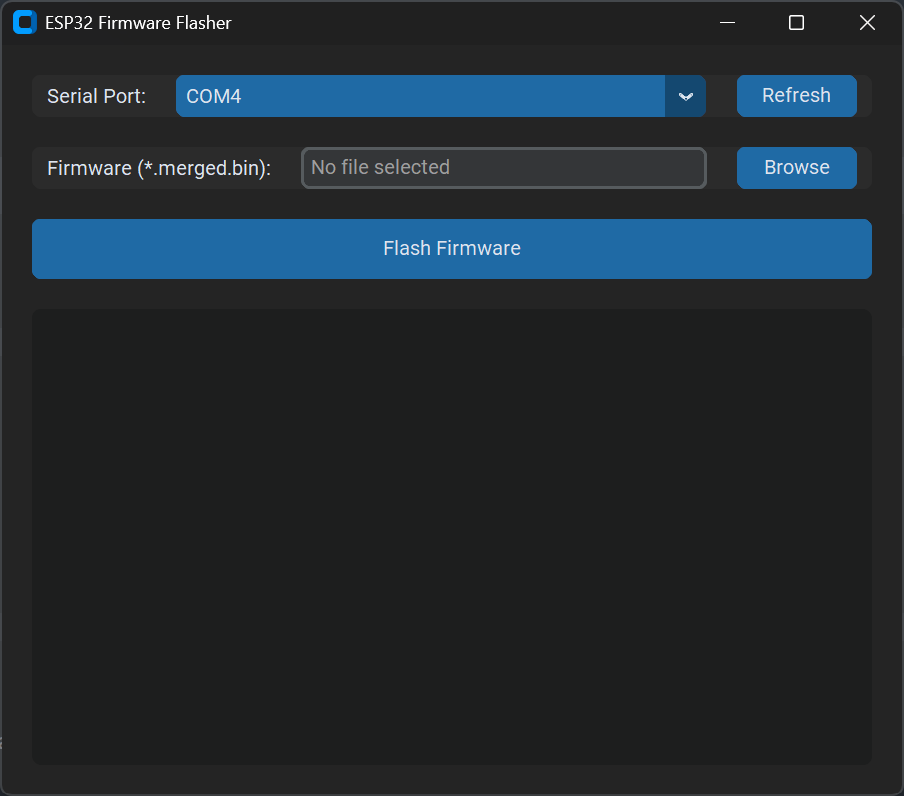
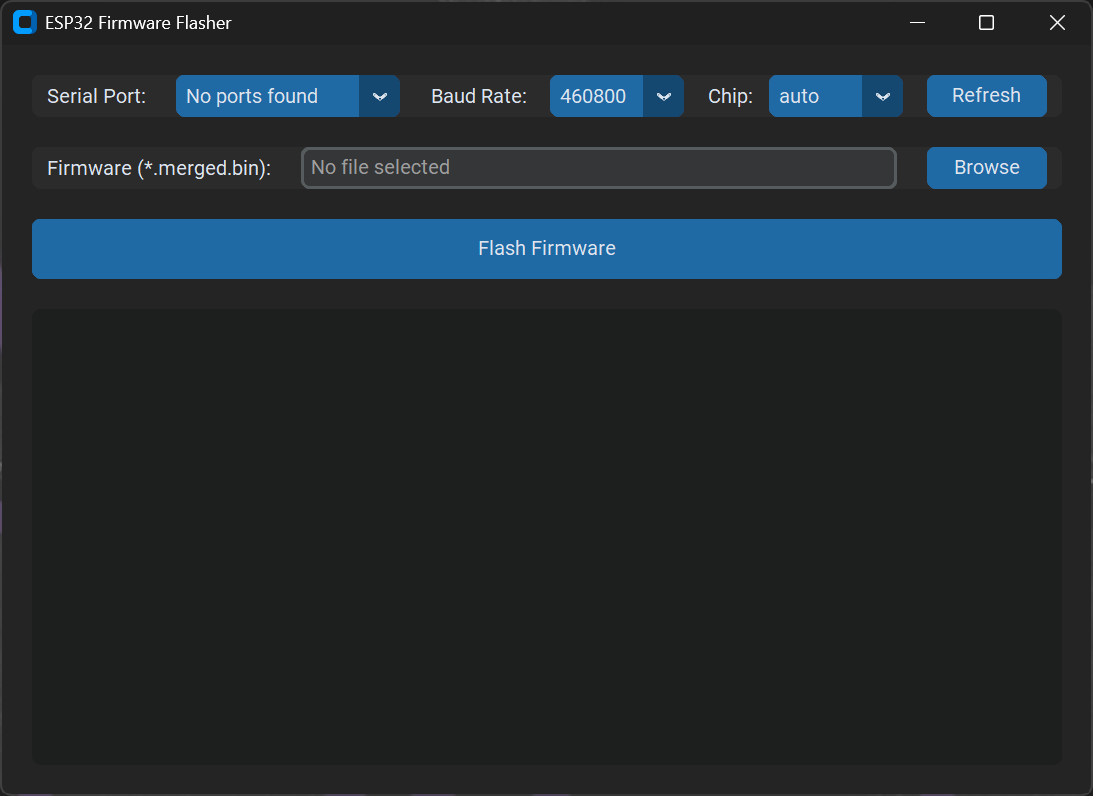
Fixed UART reset logic, improved UX, and updated screenshot

diff --git a/src/flasher.py b/src/flasher.py
@@ -7,11 +7,13 @@ import re
 from io import StringIO
 
 class FlasherInterface:
-    def __init__(self, port, firmware_path, baud_rate=460800, callback=None):
+    def __init__(self, port, firmware_path, baud_rate=460800, chip_type="auto", callback=None):
         self.port = port
         self.firmware_path = firmware_path
         self.baud_rate = baud_rate
+        self.chip_type = chip_type
         self.callback = callback
+
         self.is_flashing = False
         self.cancel_requested = False
 
@@ -26,7 +28,7 @@ class FlasherInterface:
             self.callback(message)
 
     def flash_firmware(self):
-        """Runs the esptool flashing process in a separate thread."""
+        """Runs the esptool flashing process in a separate subprocess."""
         self.is_flashing = True
         self.cancel_requested = False
         
@@ -34,48 +36,63 @@ class FlasherInterface:
             try:
                 self.log(f"Starting flash on {self.port} at {self.baud_rate} baud...\n")
                 
-                # Redirect stdout/stderr to capture output
-                original_stdout = sys.stdout
-                original_stderr = sys.stderr
+                # Wait 3 seconds before performing reset
+                self.log("Waiting 3 seconds before reset...\n")
+                time.sleep(3)
                 
+                import subprocess
                 
-                class StreamLogger:
-                    def __init__(self, callback):
-                        self.callback = callback
-                        self.ansi_escape = re.compile(r'\x1B(?:[@-Z\\-_]|\[[0-?]*[ -/]*[@-~])')
-                    
-                    def write(self, text):
-                        # Strip ANSI codes
-                        clean_text = self.ansi_escape.sub('', text)
-                        # Fix line breaks for GUI (convert \r to \n)
-                        clean_text = clean_text.replace('\r\n', '\n').replace('\r', '\n')
-                        if clean_text:
-                            self.callback(clean_text)
-                            
-                    def flush(self):
-                        pass
-
-                sys.stdout = StreamLogger(self.callback)
-                sys.stderr = StreamLogger(self.callback)
-
-                args = [
+                # Build command for subprocess
+                cmd = [
+                    sys.executable, '-m', 'esptool',
                     '--port', self.port,
                     '--baud', str(self.baud_rate),
                     '--before', 'default-reset',
                     '--after', 'hard-reset',
-                    'write-flash',
-                    '-z',
-                    '0x0', self.firmware_path
                 ]
                 
+                # Add chip type if specified
+                if self.chip_type and self.chip_type != "auto":
+                    cmd.extend(['--chip', self.chip_type])
+                
+                cmd.extend([
+                    'write-flash',
+                    '-z',
+                    '--flash-mode', 'keep',
+                    '--flash-freq', 'keep',
+                    '--flash-size', 'keep',
+                    '0x0', self.firmware_path
+                ])
+                
+                # Log the command for debugging
+                self.log(f"Running command: {' '.join(cmd)}\n")
+                
                 try:
-                    esptool.main(args)
-                    self.log("\nFlashing completed successfully!\n")
+                    # Run esptool as subprocess
+                    process = subprocess.Popen(
+                        cmd,
+                        stdout=subprocess.PIPE,
+                        stderr=subprocess.STDOUT,
+                        text=True,
+                        bufsize=1
+                    )
+                    
+                    # Read output line by line
+                    ansi_escape = re.compile(r'\x1B(?:[@-Z\\-_]|\[[0-?]*[ -/]*[@-~])')
+                    for line in process.stdout:
+                        clean_line = ansi_escape.sub('', line)
+                        self.log(clean_line)
+                    
+                    process.wait()
+                    
+                    if process.returncode == 0:
+                        self.log("\nFlashing completed successfully!\n")
+                    else:
+                        self.log(f"\nError during flashing (exit code: {process.returncode})\n")
+                        
                 except Exception as e:
                     self.log(f"\nError during flashing: {str(e)}\n")
                 finally:
-                    sys.stdout = original_stdout
-                    sys.stderr = original_stderr
                     self.is_flashing = False
                     
             except Exception as e:

diff --git a/src/gui.py b/src/gui.py
@@ -14,6 +14,7 @@ class App(ctk.CTk):
         self.grid_columnconfigure(0, weight=1)
         self.grid_rowconfigure(3, weight=1)
 
+
         self.flasher = FlasherInterface(None, None)
         self.firmware_path = None
         
@@ -26,6 +27,7 @@ class App(ctk.CTk):
         # Queue for thread-safe logging
         self.log_queue = queue.Queue()
         self.check_log_queue()
+
 
     def create_widgets(self):
         # 1. Port Selection
@@ -48,9 +50,18 @@ class App(ctk.CTk):
         self.baud_rates = ["300", "600", "1200", "2400", "4800", "9600", "14400", "19200", 
                           "28800", "38400", "57600", "115200", "230400", "460800", "921600", 
                           "1000000", "2000000"]
-        self.baud_option_menu = ctk.CTkOptionMenu(self.port_frame, values=self.baud_rates)
-        self.baud_option_menu.pack(side="left", padx=10)
+        self.baud_option_menu = ctk.CTkOptionMenu(self.port_frame, values=self.baud_rates, width=90)
+        self.baud_option_menu.pack(side="left", padx=5)
         self.baud_option_menu.set("460800")
+        
+        # 1c. Chip Type Selection
+        self.chip_label = ctk.CTkLabel(self.port_frame, text="Chip:")
+        self.chip_label.pack(side="left", padx=(10, 5))
+        
+        self.chip_types = ["auto", "esp32", "esp32s2", "esp32s3", "esp32c3", "esp32c6", "esp32h2"]
+        self.chip_option_menu = ctk.CTkOptionMenu(self.port_frame, values=self.chip_types, width=90)
+        self.chip_option_menu.pack(side="left", padx=5)
+        self.chip_option_menu.set("auto")
 
 
         # 2. File Selection
@@ -69,6 +80,7 @@ class App(ctk.CTk):
         # 3. Action Buttons
         self.action_frame = ctk.CTkFrame(self, fg_color="transparent")
         self.action_frame.grid(row=2, column=0, padx=20, pady=10, sticky="ew")
+
         
         self.flash_btn = ctk.CTkButton(self.action_frame, text="Flash Firmware", command=self.start_flashing, height=40)
         self.flash_btn.pack(fill="x")
@@ -76,6 +88,7 @@ class App(ctk.CTk):
         # 4. Console/Log
         self.log_textbox = ctk.CTkTextbox(self, state="disabled")
         self.log_textbox.grid(row=3, column=0, padx=20, pady=(10, 20), sticky="nsew")
+
 
     def refresh_ports(self):
         ports = self.flasher.list_ports()
@@ -127,7 +140,13 @@ class App(ctk.CTk):
         except ValueError:
             baud_rate = 460800 # Default fallback
             
-        self.flasher = FlasherInterface(port, self.firmware_path, baud_rate=baud_rate, callback=self.log_callback)
+        self.flasher = FlasherInterface(
+            port, 
+            self.firmware_path, 
+            baud_rate=baud_rate, 
+            chip_type=self.chip_option_menu.get(), 
+            callback=self.log_callback
+        )
 
         
         # Start in thread
